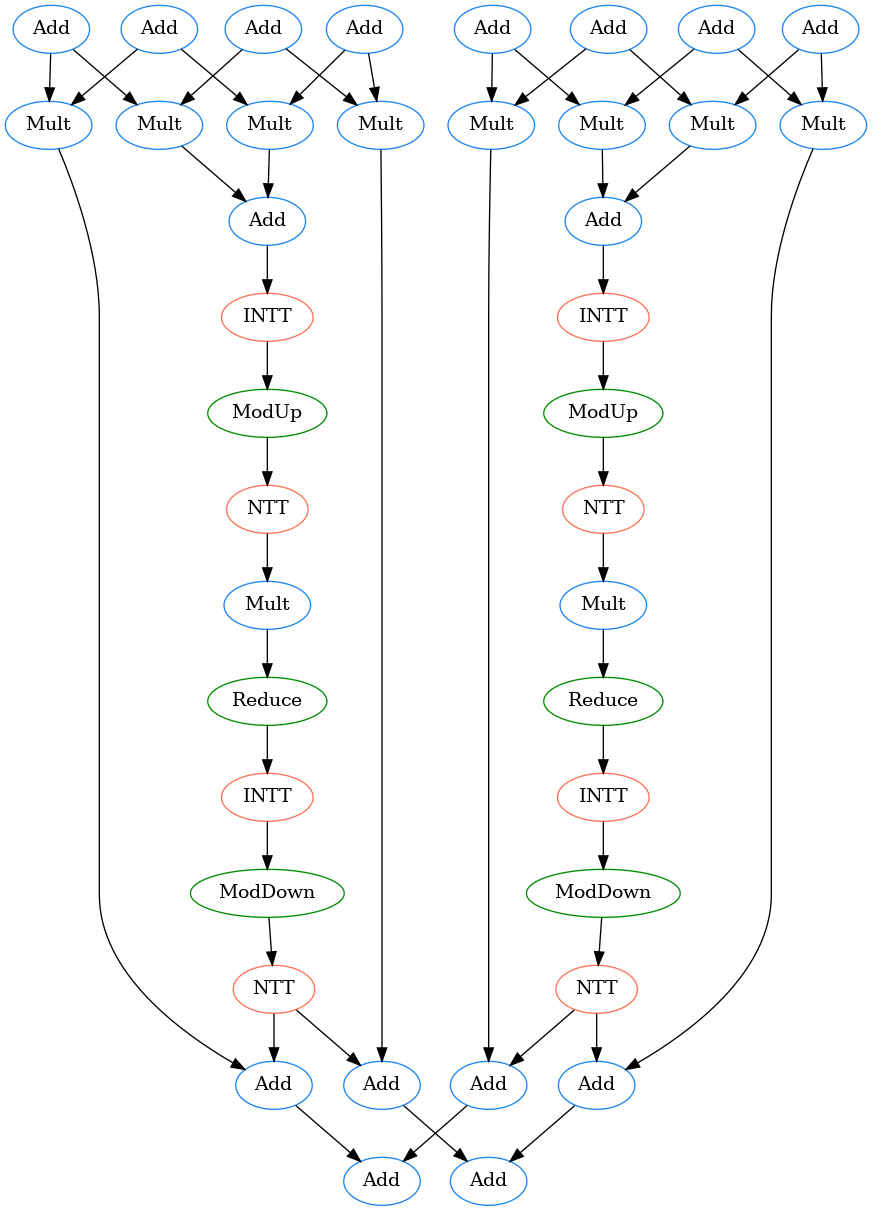
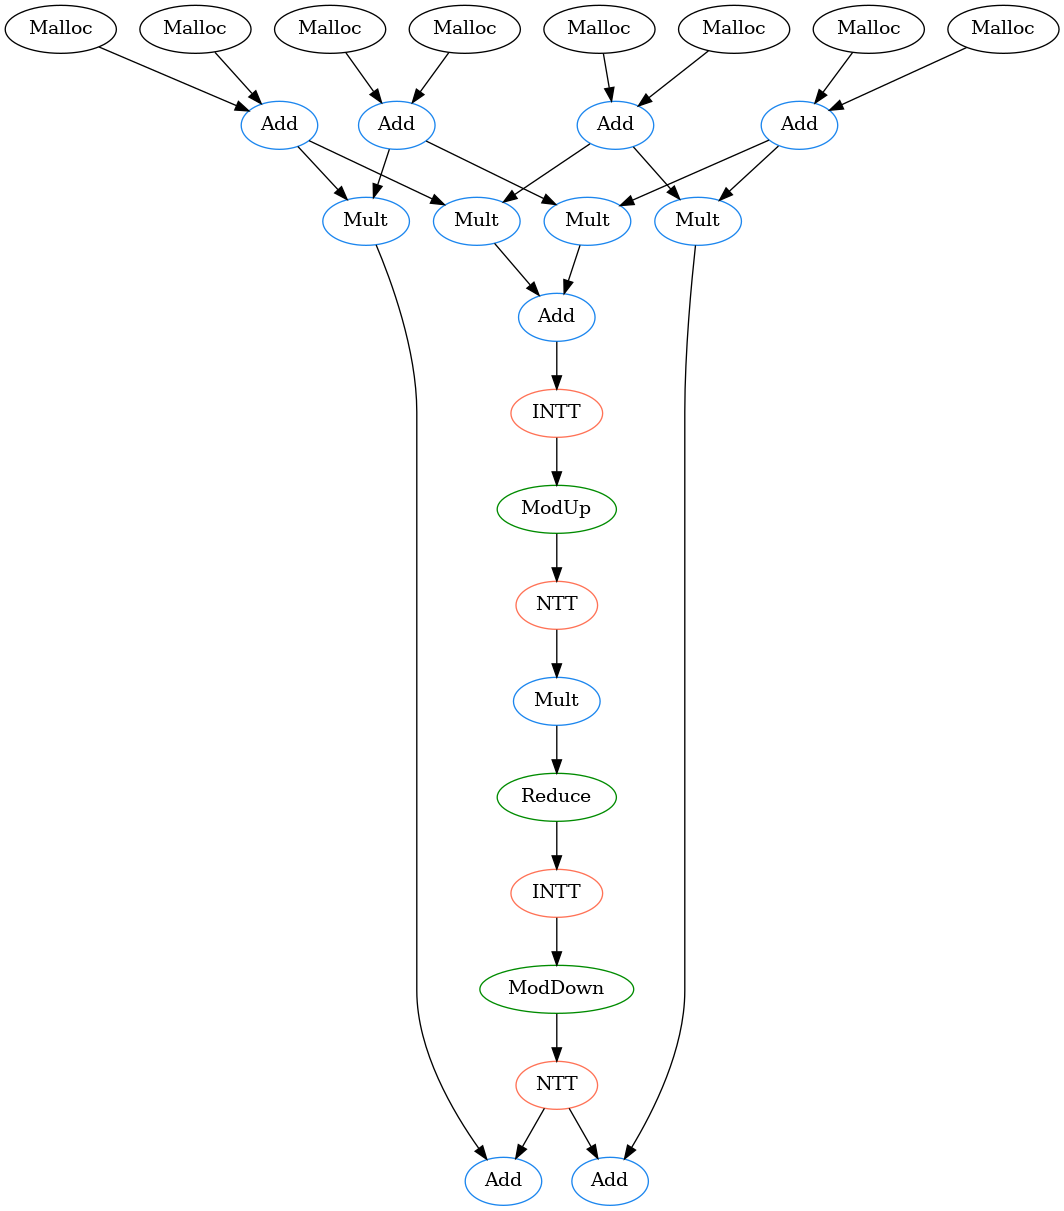
introduce Malloc

Changed region(s): [[0.0, 0.0, 1.0, 1.0], [0.2477, 0.3361, 0.4025, 0.9166], [0.2477, 0.8555, 0.2787, 0.886]]

diff --git a/src/poly-op.cc b/src/poly-op.cc
@@ -8,6 +8,8 @@ std::string getColor(AccessPattern ap) {
             return "coral1";
         case CoeffWise:
             return "green4";
+        case Other:
+            return "black";
     }
     return "black";
 }
@@ -44,12 +46,18 @@ PolyOp NewINTT(){
     return {"INTT", PolyWise, getColor(PolyWise)};
 }
 
+PolyOp NewMalloc(){
+    return {"Malloc", Other, getColor(Other)};
+}
+
 void connect_edge(int in, GraphPoly::vertex_descriptor to, GraphPoly &g) {
     if (in != -1) {
         GraphPoly::vertex_descriptor in_v = boost::vertex(in, g);
         boost::add_edge(in_v, to, g);
     }else {
-        g[to].if_root = true;
+        GraphPoly::vertex_descriptor malloc = boost::add_vertex(g);
+        g[malloc] = NewMalloc();
+        boost::add_edge(malloc, to, g);
     }
 }
 
@@ -140,7 +148,7 @@ void fuse_poly(GraphPoly &g_poly, GraphPoly &g_poly_fused){
     std::vector<int> stack;
     for (int i = 0; i < n; i++) {
         const GraphPoly::vertex_descriptor v = boost::vertex(i, g_poly);
-        if (g_poly[v].if_root) {
+        if (g_poly[v].name == "Malloc") {
             stack.push_back(i);
         }
     }
@@ -151,8 +159,15 @@ void fuse_poly(GraphPoly &g_poly, GraphPoly &g_poly_fused){
         if (visited[v] == 1) {
             continue;
         }
-        std::cout << "Visiting " << v << std::endl;
         visited[v] = 1;
+        // fuse Elem-wise operations with adjacent PolyOp
+        if (g_poly[v].access_pattern == ElemWise) {
+            std::cout << "ElemWise: " << g_poly[v].name;
+            for (auto it = boost::adjacent_vertices(v, g_poly); it.first != it.second; ++it.first) {
+                std::cout << " -> " << g_poly[*it.first].name;
+            }
+            std::cout << std::endl;
+        }
         stack.push_back(v);
         for (auto it = boost::adjacent_vertices(v, g_poly); it.first != it.second; ++it.first) {
             stack.push_back(*it.first);

diff --git a/src/fhe-op.cc b/src/fhe-op.cc
@@ -11,26 +11,14 @@ FHEOp NewHMult(){
 }
 
 void dummy_fhe_graph(GraphFHE &g){
+    GraphFHE::vertex_descriptor add0 = boost::add_vertex(g);
     GraphFHE::vertex_descriptor add1 = boost::add_vertex(g);
-    GraphFHE::vertex_descriptor add2 = boost::add_vertex(g);
-    GraphFHE::vertex_descriptor mult1 = boost::add_vertex(g);
-    GraphFHE::vertex_descriptor add3 = boost::add_vertex(g);
-    GraphFHE::vertex_descriptor add4 = boost::add_vertex(g);
-    GraphFHE::vertex_descriptor mult2 = boost::add_vertex(g);
-    GraphFHE::vertex_descriptor add5 = boost::add_vertex(g);
+    GraphFHE::vertex_descriptor mult0 = boost::add_vertex(g);
+    g[add0] = NewHAdd();
     g[add1] = NewHAdd();
-    g[add2] = NewHAdd();
-    g[mult1] = NewHMult();
-    g[add3] = NewHAdd();
-    g[add4] = NewHAdd();
-    g[mult2] = NewHMult();
-    g[add5] = NewHAdd();
-    boost::add_edge(add1, mult1, g);
-    boost::add_edge(add2, mult1, g);
-    boost::add_edge(add3, mult2, g);
-    boost::add_edge(add4, mult2, g);
-    boost::add_edge(mult1, add5, g);
-    boost::add_edge(mult2, add5, g);
+    g[mult0] = NewHMult();
+    boost::add_edge(add0, mult0, g);
+    boost::add_edge(add1, mult0, g);
 }
 
 void update_children(GraphFHE &g, GraphFHE::vertex_descriptor v, int out1, int out2){

diff --git a/src/main.cc b/src/main.cc
@@ -15,7 +15,7 @@ int main()
     boost::dynamic_properties dp_fhe;
     dp_fhe.property("node_id", get(boost::vertex_index, g_fhe));
     dp_fhe.property("label", get(&FHEOp::name, g_fhe));
-    std::ofstream file_fhe("./graph/graph_fhe.dot");
+    std::ofstream file_fhe("./data/graph_fhe.dot");
     boost::write_graphviz_dp(file_fhe, g_fhe, dp_fhe);
     
     // Lower to Poly graph
@@ -26,7 +26,7 @@ int main()
     dp_poly.property("node_id", get(boost::vertex_index, g_poly));
     dp_poly.property("label", get(&PolyOp::name, g_poly));
     dp_poly.property("color", get(&PolyOp::color, g_poly));
-    std::ofstream file("./graph/graph_poly.dot");
+    std::ofstream file("./data/graph_poly.dot");
     boost::write_graphviz_dp(file, g_poly, dp_poly);
 
     // Fuse Poly graph

diff --git a/src/graph.h b/src/graph.h
@@ -11,7 +11,8 @@
 enum AccessPattern {
     ElemWise,
     PolyWise,
-    CoeffWise
+    CoeffWise,
+    Other
 };
 
 struct PolyOp {
@@ -19,7 +20,6 @@ public:
     std::string name;
     AccessPattern access_pattern;
     std::string color;
-    bool if_root = false;
 };
 
 struct FHEOp {
